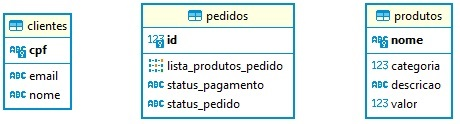
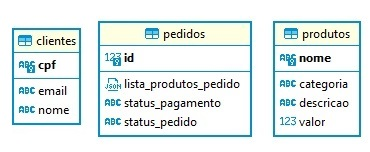
Fix: ajuste banco de dados
Colocar em formato Json a lista de produtos

diff --git a/src/main/java/com/fiap/lanchonete/infrastructure/persistence/entity/PedidoEntity.java b/src/main/java/com/fiap/lanchonete/infrastructure/persistence/entity/PedidoEntity.java
@@ -6,9 +6,13 @@ import java.util.List;
 
 import org.springframework.context.annotation.Lazy;
 
+import com.fiap.lanchonete.domain.entity.Produto;
 import com.fiap.lanchonete.domain.entity.StatusPagamento;
 import com.fiap.lanchonete.domain.entity.StatusPedido;
+import com.fiap.lanchonete.infrastructure.persistence.converters.ProdutoListConverter;
 
+import jakarta.persistence.Column;
+import jakarta.persistence.Convert;
 import jakarta.persistence.Entity;
 import jakarta.persistence.EnumType;
 import jakarta.persistence.Enumerated;
@@ -26,8 +30,9 @@ public class PedidoEntity {
 	@Id
 	@GeneratedValue(strategy = GenerationType.SEQUENCE)
 	Integer id;
-    
-	List<String> listaProdutosPedido;
+
+    @Convert(converter = ProdutoListConverter.class)
+    List<Produto> listaProdutosPedido;
 	 
 	@NotNull
 	@Enumerated(EnumType.STRING)
@@ -41,13 +46,13 @@ public class PedidoEntity {
 		
 	}
 
-	public PedidoEntity(List<String> listaProdutosPedido, @NotNull StatusPedido statusPedido,
+	public PedidoEntity(List<Produto> listaProdutosPedido, @NotNull StatusPedido statusPedido,
 			@NotNull StatusPagamento statusPagamento) {
 		this.listaProdutosPedido = listaProdutosPedido;
 		this.statusPedido = statusPedido;
 		this.statusPagamento = statusPagamento;
 	}
-	public PedidoEntity(Integer id,List<String> listaProdutosPedido, @NotNull StatusPedido statusPedido,
+	public PedidoEntity(Integer id,List<Produto> listaProdutosPedido, @NotNull StatusPedido statusPedido,
 			@NotNull StatusPagamento statusPagamento) {
 		this.id = id;
 		this.listaProdutosPedido = listaProdutosPedido;
@@ -63,11 +68,11 @@ public class PedidoEntity {
 		this.id = id;
 	}
 
-	public List<String> getListaProdutosPedido() {
+	public List<Produto> getListaProdutosPedido() {
 		return listaProdutosPedido;
 	}
 
-	public void setListaProdutosPedido(List<String> listaProdutosPedido) {
+	public void setListaProdutosPedido(List<Produto> listaProdutosPedido) {
 		this.listaProdutosPedido = listaProdutosPedido;
 	}
 

diff --git a/src/main/java/com/fiap/lanchonete/infrastructure/controller/requestsdto/PedidoRequest.java b/src/main/java/com/fiap/lanchonete/infrastructure/controller/requestsdto/PedidoRequest.java
@@ -2,13 +2,14 @@ package com.fiap.lanchonete.infrastructure.controller.requestsdto;
 
 import java.util.List;
 
+import com.fiap.lanchonete.domain.entity.Produto;
 import com.fiap.lanchonete.domain.entity.StatusPagamento;
 import com.fiap.lanchonete.domain.entity.StatusPedido;
 
 public class PedidoRequest {
 	
 	Integer idPedido;
-	List<String> listaProdutos;
+	List<Produto> listaProdutos;
 	StatusPedido statusPedido;
 	StatusPagamento statusPagamento;
 	
@@ -16,7 +17,7 @@ public class PedidoRequest {
 		
 	}
 	
-	public PedidoRequest(Integer idPedido, List<String> listaProdutos, StatusPedido statusPedido,
+	public PedidoRequest(Integer idPedido, List<Produto> listaProdutos, StatusPedido statusPedido,
 			StatusPagamento statusPagamento) {
 		this.idPedido = idPedido;
 		this.listaProdutos = listaProdutos;
@@ -29,10 +30,10 @@ public class PedidoRequest {
 	public void setIdPedido(Integer idPedido) {
 		this.idPedido = idPedido;
 	}
-	public List<String> getListaProdutos() {
+	public List<Produto> getListaProdutos() {
 		return listaProdutos;
 	}
-	public void setListaProdutos(List<String> listaProdutos) {
+	public void setListaProdutos(List<Produto> listaProdutos) {
 		this.listaProdutos = listaProdutos;
 	}
 	public StatusPedido getStatusPedido() {

diff --git a/src/main/java/com/fiap/lanchonete/infrastructure/persistence/converters/ProdutoListConverter.java b/src/main/java/com/fiap/lanchonete/infrastructure/persistence/converters/ProdutoListConverter.java
@@ -1,0 +1,37 @@
+package com.fiap.lanchonete.infrastructure.persistence.converters;
+
+import java.io.IOException;
+import java.util.List;
+
+import com.fasterxml.jackson.core.JsonProcessingException;
+import com.fasterxml.jackson.core.type.TypeReference;
+import com.fasterxml.jackson.databind.ObjectMapper;
+import com.fiap.lanchonete.domain.entity.Produto;
+
+import jakarta.persistence.AttributeConverter;
+import jakarta.persistence.Converter;
+
+@Converter
+public class ProdutoListConverter implements AttributeConverter<List<Produto>, String> {
+
+	private final ObjectMapper objectMapper = new ObjectMapper();
+
+	@Override
+	public String convertToDatabaseColumn(List<Produto> produtos) {
+		try {
+			return objectMapper.writeValueAsString(produtos);
+		} catch (JsonProcessingException e) {
+			throw new IllegalArgumentException("Erro ao converter lista de produtos para JSON", e);
+		}
+	}
+
+	@Override
+	public List<Produto> convertToEntityAttribute(String json) {
+		try {
+			return objectMapper.readValue(json, new TypeReference<List<Produto>>() {
+			});
+		} catch (IOException e) {
+			throw new IllegalArgumentException("Erro ao converter JSON para lista de produtos", e);
+		}
+	}
+}

diff --git a/src/main/java/com/fiap/lanchonete/application/usercases/PedidoUseCasesImp.java b/src/main/java/com/fiap/lanchonete/application/usercases/PedidoUseCasesImp.java
@@ -1,6 +1,7 @@
 package com.fiap.lanchonete.application.usercases;
 
 import java.util.List;
+import java.util.stream.Collectors;
 
 import com.fiap.lanchonete.application.gateways.PedidoGateway;
 import com.fiap.lanchonete.application.gateways.ProdutoGateway;
@@ -44,11 +45,11 @@ public class PedidoUseCasesImp implements PedidoUseCases {
 	public Pedido realizaPedido(Pedido pedido) throws PedidoComProdutoNaoCadastradoException {
 		
 		 if (pedido.getListaProdutos().stream()
-		            .anyMatch(produto -> produtoGateway.buscarPeloNome(produto) == null)) {
+		            .anyMatch(produto -> produtoGateway.buscarPeloNome(produto.getNome()) == null)) {
 		        throw new PedidoComProdutoNaoCadastradoException();
 		    }
 		
-		Pedido pedidoParaCriar = new Pedido(pedido.getId(),pedido.getListaProdutos(), StatusPedido.Recebido,
+		Pedido pedidoParaCriar = new Pedido(pedido.getId(),pedido.getListaProdutos().stream().map(produto -> produtoGateway.buscarPeloNome(produto.getNome())).collect(Collectors.toList()), StatusPedido.Recebido,
 				StatusPagamento.EsperandoConfirmação);
 		
 		return pedidoGateway.criaPedido(pedidoParaCriar);

diff --git a/src/main/java/com/fiap/lanchonete/infrastructure/controller/requestsdto/PedidoResponse.java b/src/main/java/com/fiap/lanchonete/infrastructure/controller/requestsdto/PedidoResponse.java
@@ -2,6 +2,7 @@ package com.fiap.lanchonete.infrastructure.controller.requestsdto;
 
 import java.util.List;
 
+import com.fiap.lanchonete.domain.entity.Produto;
 import com.fiap.lanchonete.domain.entity.StatusPagamento;
 import com.fiap.lanchonete.domain.entity.StatusPedido;
 
@@ -9,11 +10,11 @@ public class PedidoResponse {
 
 	Integer idPedido;
 
-	List<String> listaProdutos;
+	List<Produto>listaProdutos;
 	StatusPedido statusPedido;
 	StatusPagamento statusPagamento;
 
-	public PedidoResponse(Integer idPedido, List<String> listaProdutos, StatusPedido statusPedido,
+	public PedidoResponse(Integer idPedido, List<Produto>listaProdutos, StatusPedido statusPedido,
 			StatusPagamento statusPagamento) {
 		super();
 		this.idPedido = idPedido;
@@ -30,11 +31,11 @@ public class PedidoResponse {
 		this.idPedido = idPedido;
 	}
 
-	public List<String> getListaProdutos() {
+	public List<Produto>getListaProdutos() {
 		return listaProdutos;
 	}
 
-	public void setListaProdutos(List<String> listaProdutos) {
+	public void setListaProdutos(List<Produto>listaProdutos) {
 		this.listaProdutos = listaProdutos;
 	}
 

diff --git a/src/main/java/com/fiap/lanchonete/domain/entity/Pedido.java b/src/main/java/com/fiap/lanchonete/domain/entity/Pedido.java
@@ -5,10 +5,10 @@ import java.util.List;
 public class Pedido {
 	
 	Integer id;
-	List<String> listaProdutos;
+	List<Produto> listaProdutos;
 	StatusPedido statusPedido;
 	StatusPagamento statusPagamento;
-	public Pedido(Integer id, List<String> listaProdutos, StatusPedido statusPedido,
+	public Pedido(Integer id, List<Produto> listaProdutos, StatusPedido statusPedido,
 			StatusPagamento statusPagamento) {
 	
 		this.id = id;
@@ -25,10 +25,10 @@ public class Pedido {
 		this.id = id;
 	}
 
-	public List<String> getListaProdutos() {
+	public List<Produto> getListaProdutos() {
 		return listaProdutos;
 	}
-	public void setListaProdutos(List<String> listaProdutos) {
+	public void setListaProdutos(List<Produto> listaProdutos) {
 		this.listaProdutos = listaProdutos;
 	}
 	public StatusPedido getStatusPedido() {

diff --git a/README.md b/README.md
@@ -101,22 +101,22 @@ O Banco de dados é composto por tres tabelas.
 
 ### tabela Cliente
 A tabela cliente é formado por três campos:
-1 - **CPF** Chave primária em formato String. Guarda a informação do CPF do cliente.
-2 - **nome** em formato String. Guarda a informação do nome completo da pessoa.
-3 - **email** em formato String Guarda a informação de email para contato. 
+1 - **CPF**: Chave primária em formato String. Armazena o CPF do cliente.
+2 - **nome**: Em formato String.  Armazena o nome completo da pessoa.
+3 - **email**: Em formato String. Armazena o endereço de e-mail para contato.
 
 ### Tabela Pedidos
 A tabela pedidos é formato por quatro atributos
-1 - **id** Chave primária em formato numerico. Guarda o id cujo pedido será referenciado.
-2 - **lista_produtos_pedido** em formato String. Guarda em formato JSON uma lista com o nome dos produtos relacionados ao pedido.
-3 - **status_pagamento** em formato String. Guarda o status de pagamento do pedido. Pode conter um dos três estados Pago, EsperandoConfirmação ou Cancelado.
-4 - **status_pedido** em formato String. Guarda o status do pedido. Pode conter um dos quatro estados Recebido, EmPreparacao, Pronto ou Finalizado.
+1 - **id**: Chave primária em formato numerico. Armazena o identificador único do pedido.
+2 - **lista_produtos_pedido**Em formato JSON. Armazena uma lista de objetos contendo informações dos produtos relacionados ao pedido, como nome, quantidade, e preço unitário.
+3 - **status_pagamento**: Em formato String. Armazena o status de pagamento do pedido, podendo ser "Pago", "Esperando Confirmação" ou "Cancelado".
+4 - **status_pedido**: Em formato String. Armazena o status do pedido, podendo ser "Recebido", "Em Preparação", "Pronto" ou "Finalizado".
 
 ### Tabela Produtos
 A tabela produtos é formado por três atributos.
-1 - **nome** Chave primária em formato String. Guarda o nome do produto.
-2 - **categoria** em formato String. Guarda a informação da categoria do produto pode ter como valor Lanche, Bebida, Acompanhamento ou Sobremesa.
-3 - **valor** em formato numerico. Guarda a informação do preço do produto.
+1 - **nome** Chave primária em formato String. Armazena o nome único do produto.
+2 - **categoria** Em formato String.Armazena a categoria do produto, podendo ser "Lanche", "Bebida", "Acompanhamento" ou "Sobremesa".
+3 - **valor** Em formato numérico. Armazena o preço do produto.
 
 
 ---
